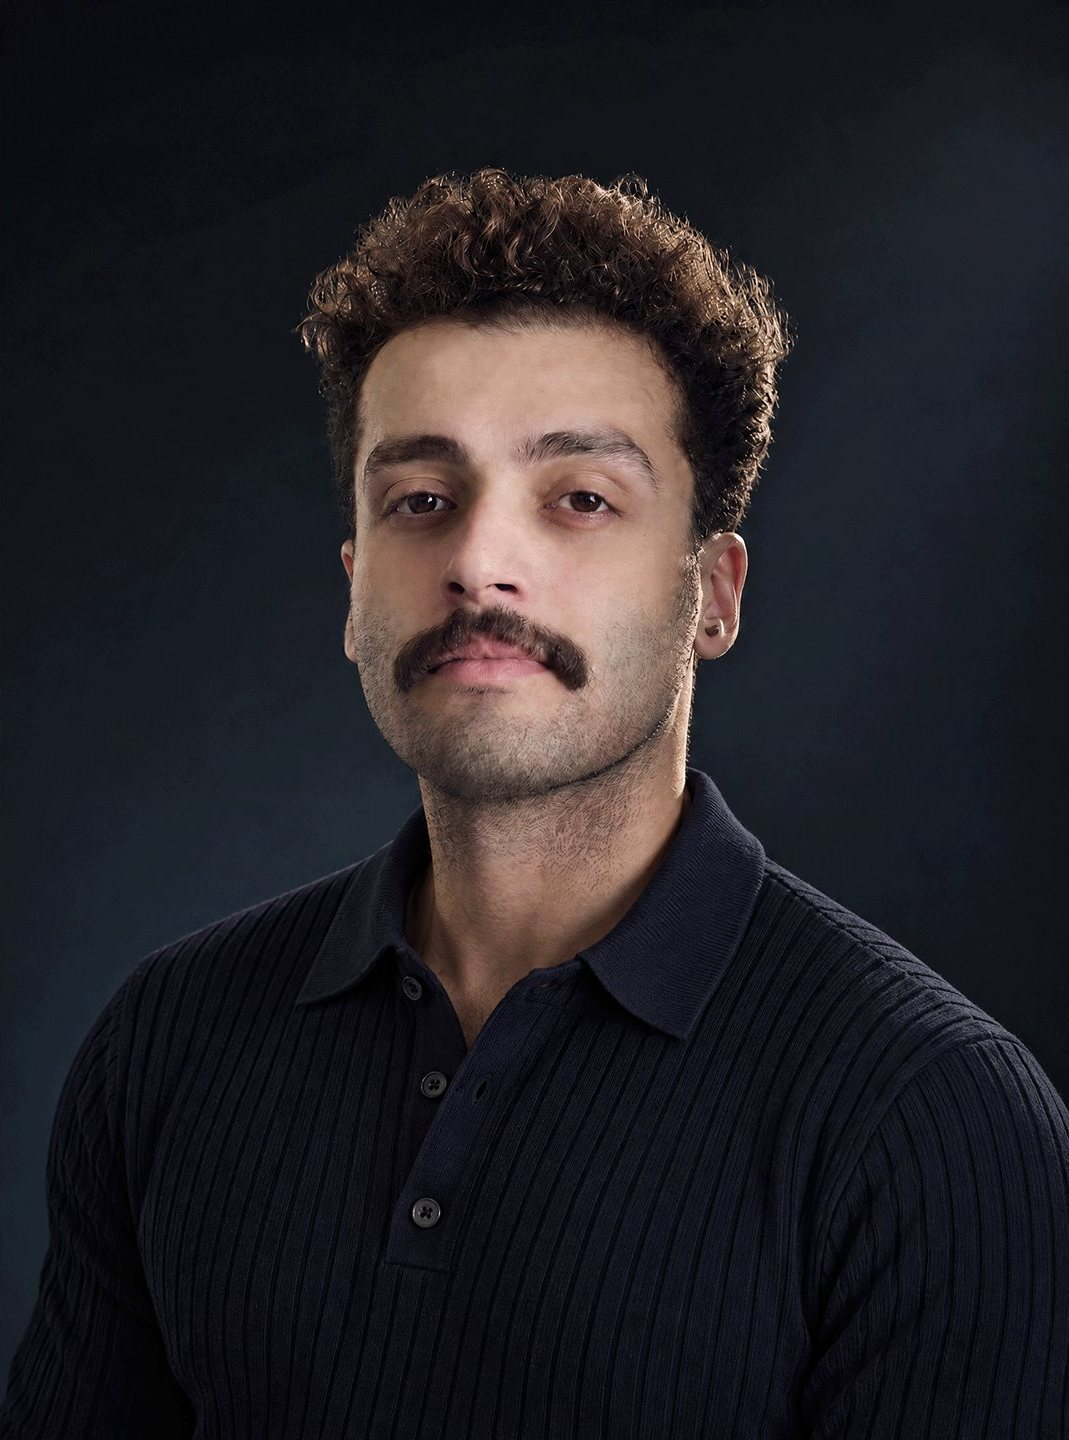
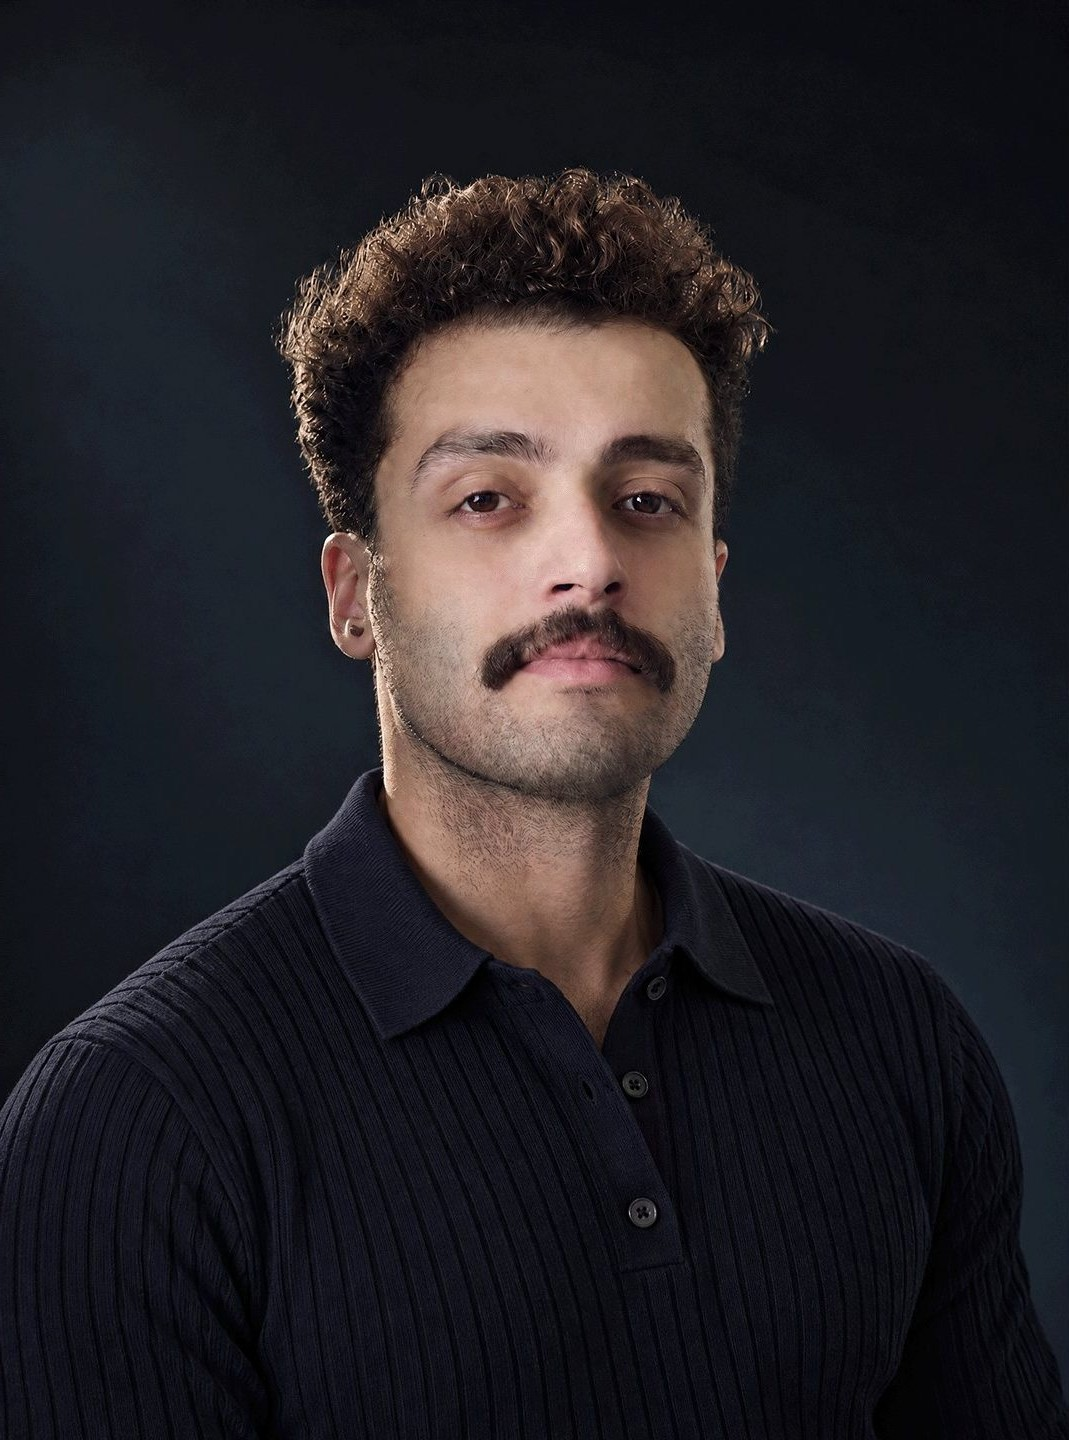
Team cards open downward on hover, and Ali's portrait is mirrored
Applies the one new section of the 29 September handoff. Everything else in that
folder is already on main as of e8ba711.

Hovering a team card used to widen it — flex-grow 1.7 against 0.85 for its
siblings — which turned a 1069x1440 portrait into a landscape frame and cropped
the head and shoulders. Measured at 1440px on the previous build, the hovered
card went from 423px to 634px wide while its siblings shrank to 317px, and the
image gained only 29px of height.

Now the three cards keep equal widths and the hovered one grows downward: the
image height goes from clamp(280px,27cqw,400px) to clamp(360px,36cqw,540px),
which at 1440px is 389px to 515px, with the greyscale-to-colour change as
before. The row is already align-items:flex-start, so the other two cards keep
their height and their top edges do not move. The change is confined to _tSet(),
behind the existing !_isNarrow() gate, so the phone and tablet carousel is
untouched — which is also why the effect does nothing below 1120px.

Ali's portrait is mirrored horizontally at the client's request, same file name
and same 1069x1440. Confirmed as a pure mirror rather than a different photo:
compared against the previous file it differs by 14.98 mean channel value, and
against that file flipped by 0.50, which is JPEG re-encoding noise. Both edges
carry normal image detail, so the near-black strip that was cropped out earlier
has not come back on the other side. The file is 35% heavier than the one it
[…]

diff --git a/Kinomad Landing.dc.html b/Kinomad Landing.dc.html
@@ -1201,16 +1201,15 @@ class Component extends DCLogic {
     const frame = document.getElementById('frame');
     const narrow = frame && frame.clientWidth <= 780;
     if (!narrow) {
-      card.style.flexGrow = on ? '1.7' : '1';
-      for (const sib of card.parentElement.children) {
-        if (sib !== card) sib.style.flexGrow = on ? '0.85' : '1';
-      }
+      // Widths stay equal; the hovered card opens downward so the portrait
+      // shows more of itself instead of being cropped into a landscape.
+      for (const sib of card.parentElement.children) sib.style.flexGrow = '1';
     } else {
       card.style.flexGrow = '1';
       for (const sib of card.parentElement.children) sib.style.flexGrow = '1';
     }
     if (kids[0]) {
-      kids[0].style.height = !narrow && on ? 'clamp(300px,29cqw,430px)' : 'clamp(280px,27cqw,400px)';
+      kids[0].style.height = !narrow && on ? 'clamp(360px,36cqw,540px)' : 'clamp(280px,27cqw,400px)';
       kids[0].style.filter = on ? 'grayscale(0)' : 'grayscale(1)';
     }
     if (kids[1]) kids[1].style.background = on ? 'var(--accent)' : 'var(--line)';
